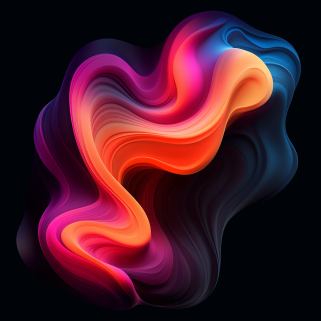
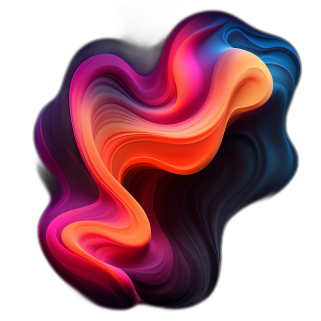
Add gradients to Feaures Images

diff --git a/src/components/FeaturesSection/Feature.tsx b/src/components/FeaturesSection/Feature.tsx
@@ -7,6 +7,7 @@ interface FeatureProps {
     title: string
     description: string
     imageUrl: string
+    gradientUrl: string
     icon: () => JSX.Element
 }
 
@@ -37,14 +38,7 @@ const TextSection = styled.div`
 `
 
 const FeatureImage = styled.img`
-    position: relative;
-    max-width: 60%;
-    height: auto;
-    z-index: 1;
-
-    @media (max-width: 766px) {
-        max-width: 100%;
-    }
+    width: 100%;
 `
 
 const FeatureTitle = styled.div`
@@ -75,7 +69,33 @@ const LearnMoreButton = () => {
     )
 }
 
-const Feature = ({ title, description, imageUrl, icon }: FeatureProps) => {
+const ImagesWrapper = styled.div`
+    position: relative;
+    max-width: 60%;
+    height: auto;
+    z-index: 1;
+
+    @media (max-width: 766px) {
+        max-width: 100%;
+    }
+`
+
+const FeatureImageGradient = styled.img`
+    position: absolute;
+    top: 20%;
+    right: -15%;
+    width: 40%;
+    height: auto;
+    z-index: -1;
+`
+
+const Feature = ({
+    title,
+    description,
+    imageUrl,
+    gradientUrl,
+    icon,
+}: FeatureProps) => {
     const { isScreenSmallerThan767 } = useScreenSize()
 
     return (
@@ -114,7 +134,13 @@ const Feature = ({ title, description, imageUrl, icon }: FeatureProps) => {
                         </FeatureDescription>
                         <LearnMoreButton />
                     </TextSection>
-                    <FeatureImage src={`${imageUrl}`} alt={title} />
+                    <ImagesWrapper>
+                        <FeatureImage src={`${imageUrl}`} alt={title} />
+                        <FeatureImageGradient
+                            src={`${gradientUrl}`}
+                            alt="gradient"
+                        />
+                    </ImagesWrapper>
                 </>
             )}
         </FeatureContainer>

diff --git a/src/utils/features.ts b/src/utils/features.ts
@@ -9,9 +9,8 @@ const features = [
         description:
             'Engage in auto-arbitrage, initiate volume generation, formulate yield farming strategies, and auto-rebalance your portfolio, ensuring optimal performance and risk mitigation.',
         imageUrl: 'Feature1.png',
-        lightImageUrl: 'Feature1Light.png',
-        icon: StrategicAutomationIcon,
         gradientUrl: 'Feature1Gradient.png',
+        icon: StrategicAutomationIcon,
     },
     {
         id: 2,
@@ -19,9 +18,8 @@ const features = [
         description:
             'With a sophisticated yet intuitive interface, manage your digital assets by setting advanced parameters, defining portfolio structures, and monitoring real-time performance, ensuring strategic alignment with your financial goals.',
         imageUrl: 'Feature2.png',
-        lightImageUrl: 'Feature2Light.png',
-        icon: StreamlinePortfolioIcon,
         gradientUrl: 'Feature2Gradient.png',
+        icon: StreamlinePortfolioIcon,
     },
     {
         id: 3,
@@ -29,9 +27,8 @@ const features = [
         description:
             'Uncover opportunities and gauge market pulse with live data, sentiment analysis, and a consolidated overview of your asset holdings, driving informed and timely decision-making.',
         imageUrl: 'Feature3.png',
-        lightImageUrl: 'Feature3Light.png',
-        icon: MarketInsightsIcon,
         gradientUrl: 'Feature3Gradient.png',
+        icon: MarketInsightsIcon,
     },
 ]
 

diff --git a/src/components/FeaturesSection/FeaturesSection.tsx b/src/components/FeaturesSection/FeaturesSection.tsx
@@ -128,6 +128,7 @@ const FeaturesSection = () => {
                     title={feature.title}
                     description={feature.description}
                     imageUrl={feature.imageUrl}
+                    gradientUrl={feature.gradientUrl}
                     icon={feature.icon}
                 />
             ))}
